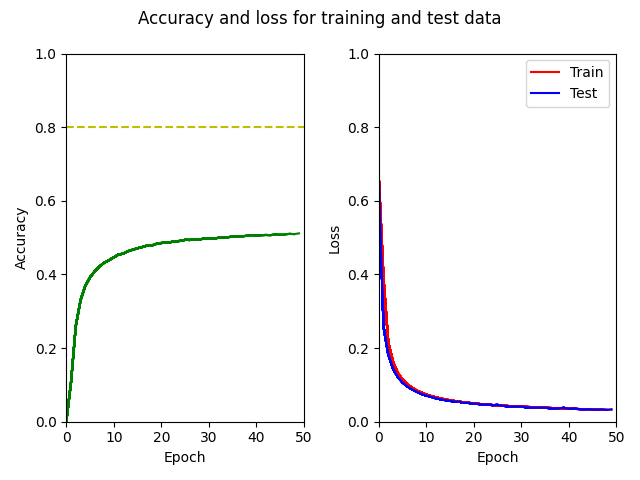
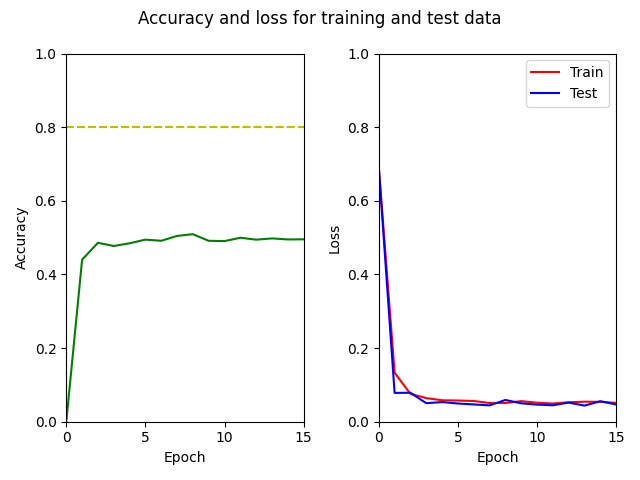
LSTM_Cell not trainable

diff --git a/Homework 07/Training.py b/Homework 07/Training.py
@@ -19,23 +19,9 @@ def main():
     train_dataset = dataset.take(100000)
     test_dataset = dataset.take(5000)
 
-    # for elm in dataset.take(1):
-    #     x, target = elm
-    #     layer = LSTM_Layer(LSTM_Cell(5))
-        
-    #     batchSize = x.shape[0]
-    #     states = layer.zero_states(batchSize)
-      
-     
-    #     x = layer.call(x, states)[:,-1,:]
-    #     print(x)
-    #     print("-----")
-    #     #print(x[:,-1,:])
-    # exit()
-
     ### Hyperparameters
-    num_epochs = 100
-    learning_rate = 0.001
+    num_epochs = 15
+    learning_rate = 0.01
 
     # Initialize the model.
     model = MyModel()
@@ -43,7 +29,6 @@ def main():
     # Initialize the loss: categorical cross entropy. Check out 'tf.keras.losses'.
     cross_entropy_loss = tf.keras.losses.BinaryCrossentropy()
  
-
     # Initialize the optimizer: 
     optimizer = tf.keras.optimizers.Adam(learning_rate)
 
@@ -62,6 +47,7 @@ def main():
     train_loss, _ = test(model, train_dataset, cross_entropy_loss)
     train_losses.append(train_loss)
     
+    model.summary()
 
     fig = plt.figure()
     fig.suptitle("Accuracy and loss for training and test data")
@@ -94,21 +80,21 @@ def main():
             train_loss = train_step(model, input, target, cross_entropy_loss, optimizer)
             epoch_loss_agg.append(train_loss)
 
-        x.append(epoch)
+        # x.append(epoch)
      
-        ax.plot(x, test_accuracies, color='g')
+        # ax.plot(x, test_accuracies, color='g')
         
-        ax1.plot(x, train_losses, 'r', label="Train")
-        ax1.plot(x, test_losses, 'b', label= "Test")
+        # ax1.plot(x, train_losses, 'r', label="Train")
+        # ax1.plot(x, test_losses, 'b', label= "Test")
 
-        if len(x) == 1:
-            ax1.legend(loc="upper right")    
+        # if len(x) == 1:
+        #     ax1.legend(loc="upper right")    
 
-        fig.tight_layout()
-        fig.canvas.draw()
-        #fig.show()
-        plt.pause(0.05)
-        plt.savefig(f"./Plots/epoch {epoch}.png")
+        # fig.tight_layout()
+        # fig.canvas.draw()
+        # #fig.show()
+        # plt.pause(0.05)
+        # fig.savefig(f"./Plots/epoch {epoch}.png")
 
 
 
@@ -121,28 +107,28 @@ def main():
         test_accuracies.append(test_accuracy)
 
 
-    #x = np.arange(0, len(train_losses))
+    x = np.arange(0, len(train_losses))
 
-    # # First subplot
-    # plt.subplot(121)
-    # plt.plot(x, test_accuracies, 'g')
+    # First subplot
+    plt.subplot(121)
+    plt.plot(x, test_accuracies, 'g')
 
-    # # Dashed line for 0.8 Accuracy
-    # plt.axhline(y=0.8, color='y', linestyle='--')
+    # Dashed line for 0.8 Accuracy
+    plt.axhline(y=0.8, color='y', linestyle='--')
 
-    # plt.xlabel("Epoch")
-    # plt.ylabel("Accuracy")
+    plt.xlabel("Epoch")
+    plt.ylabel("Accuracy")
 
-    # # Second subplot
-    # plt.subplot(122)
-    # plt.plot(x, train_losses, 'r', label="Train")
-    # plt.plot(x, test_losses, 'b', label= "Test")
-    # plt.xlabel("Epoch")
-    # plt.ylabel("Loss")
-    # plt.legend(loc="upper right")
+    # Second subplot
+    plt.subplot(122)
+    plt.plot(x, train_losses, 'r', label="Train")
+    plt.plot(x, test_losses, 'b', label= "Test")
+    plt.xlabel("Epoch")
+    plt.ylabel("Loss")
+    plt.legend(loc="upper right")
 
-    # # Format
-    # plt.tight_layout()
+    # Format
+    plt.tight_layout()
 
     # Save and display
     plt.savefig("result.png")

diff --git a/Homework 07/MyModel.py b/Homework 07/MyModel.py
@@ -10,53 +10,36 @@ class MyModel(tf.keras.Model):
     def __init__(self):
         super(MyModel, self).__init__()
 
-        # self.layer_list = [
-        #     tf.keras.layers.Dense(10, activation="sigmoid"),
-        #     #LSTM_Layer(LSTM_Cell(20)),
-        #     #LSTM_Layer(LSTM_Cell(50)),
-        #     LSTM_Layer(LSTM_Cell(20)),
-        #     #tf.keras.layers.Dense(1, activation="sigmoid")
-        #     #tf.keras.layers.Dense(1, activation="sigmoid")
-        #     tf.keras.layers.Dense(1, activation="sigmoid")
-        # #]
-        self.l1 = tf.keras.layers.Dense(100, activation="tanh") # batch size, seq, 64
-        self.l1_2 = tf.keras.layers.Dense(75, activation="tanh")
-        self.l2 = LSTM_Layer(LSTM_Cell(50)) # batch size, seq, 20
-        self.l3 = tf.keras.layers.Dense(1, activation="sigmoid") # batch size, seq, 1
+        self.layer_list = [
+            tf.keras.layers.Dense(100, activation="tanh"),
+            tf.keras.layers.Dense(75, activation="tanh"),
+
+            LSTM_Layer(LSTM_Cell(50)),
+         
+            tf.keras.layers.Dense(1, activation="sigmoid")
+        ]
+        # self.l1 = tf.keras.layers.Dense(64, activation="tanh") # batch size, seq, 64
+        # self.l1_2 = tf.keras.layers.Dense(32, activation="tanh")
+        # self.l2 = LSTM_Layer(LSTM_Cell(25)) # batch size, seq, 20
+        # self.l3 = tf.keras.layers.Dense(1, activation="sigmoid") # batch size, seq, 1
 
     @tf.function
     def call(self, x):
-        
-        x = self.l1(x)
-        x = self.l1_2(x)
-
         batchSize = x.shape[0]
-        states = self.l2.zero_states(batchSize)
-        x = self.l2(x, states)
+  
 
-        #states = self.l2_2.zero_states(batchSize)
-        #x = self.l2_2(x, states)#[:,-1,:]
-
-        x = self.l3(x)[:,-1,:]
-        # denseBlock = False # mutiple dense layers behind LSTM_Layer
-        # for layer in self.layer_list:
-          
+        for layer in self.layer_list:
             
-        #     if isinstance(layer, LSTM_Layer):
-        #         batchSize = x.shape[0]
-        #         states = layer.zero_states(batchSize)
-        #         x = layer.call(x, states)#[:,-1,:] # consider only last time testep
-
-        #     else:
+            if isinstance(layer, LSTM_Layer):
                 
-        #         # Interface between LSTM_Layer and DenseLayer
-        #         if not denseBlock:
-        #             x = x[:,-1,:] # look only at output size
+                states = layer.zero_states(batchSize)
+                x = layer(x, states)
 
-        #         denseBlock = True
-        #         x = layer(x)
+            else:
+                x = layer(x)
 
-        return x
+        
+        return x[:,-1,:]
 
 
 @tf.function
